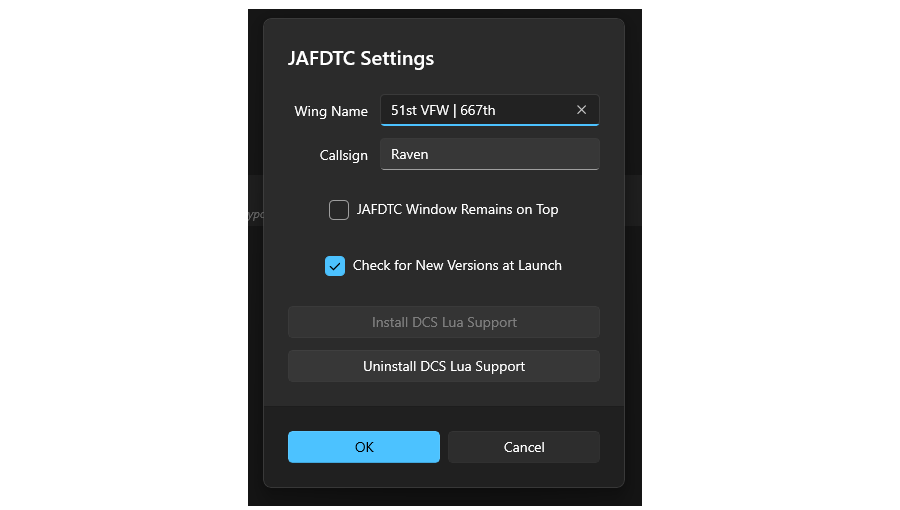
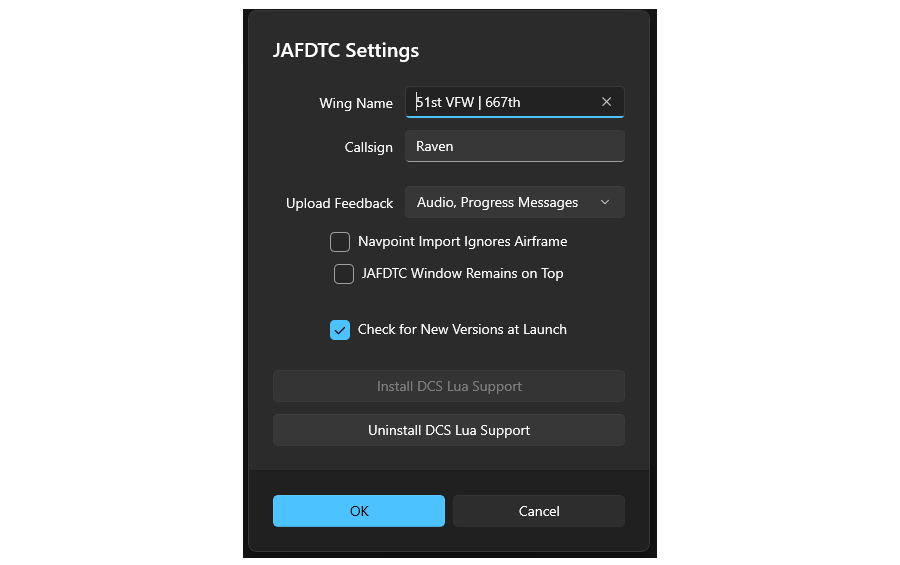
Documentation Updates
Updated for B.20.

diff --git a/doc/README.md b/doc/README.md
@@ -1,6 +1,6 @@
 # JAFDTC: User's Guide
 
-*Version 1.0.0-B.19 of 21-Jan-24*
+*Version 1.0.0-B.20 of 26-Jan-24*
 
 _Just Another #%*@^!% DTC_ (JAFDTC) is a Windows application that allows you to upload data
 typically saved on a data cartridge, such as steerpoints/waypoints and other avionics setup,
@@ -116,10 +116,12 @@ for more details.
 
 The JAFDTC user interface is based around a single window that displays a list of configrations
 for an airframe and allows you to edit the specfic systems in a configuration. This section
-covers some of the user interface features that are common to multiple airframes. See the
-airframe-specific documentation linked
-[above](#jafdtc-users-guide)
-for discussion of the user interface concepts applicable to a specific airframe.
+covers the basics of this user interface. Additional details on user interface elements that
+are common to many airframes can be found
+[here](#common-system-editor-user-interfaces)
+while the documentation linked
+[here](#jafdtc-users-guide)
+presents user interface concepts applicable to a specific airframe.
 
 ## Configuration List Page
 
@@ -342,7 +344,97 @@ system is presently linked to. When unlinking, the system configuration does not
 will no longer receive updates from the source configuration. Icons for linked systems are
 badged with a small gold dot as described earlier.
 
-## System Editors for Navigation Systems
+## Point of Interest Database
+
+JAFDTC provides a *Points of Interest* (PoI) database that contains common locations throughout
+DCS theaters. This database consists of two types of entries,
+
+- *System Entries* are entries set by DCS and cover features such as airfields.
+- *User Entries* are entries defined by a user that cover features useful to a user.
+
+While *System Entries* are fixed and immutable, users can define and managed *User Entries* as
+they see fit. PoIs are applied using the **Paste PoI** command from a
+[navigation point editor](#navigation-point-editor)
+to copy the locations to a navigation point. User PoIs can also be created from a navigation
+point editor.
+
+The **Point of Interest** command in the
+[overflow menu](#command-bar)
+opens up an editor page to manage known PoIs.
+
+![](images/Core_Base_PoI.png)
+
+The top portion of this page contains a combo box that allows you to filter the PoIs by DCS
+theater along with a command bar. Below this row is a list of PoIs, one per row. The pin icon
+at the left of a row indicates that the PoI is a user PoI. At the bottom of the page is an area
+to edit the properties of a PoI including the name, latitude, longitude, and elevation.
+
+The command bar,
+
+![](images/Core_Base_PoI_Cmd.png)
+
+includes the following commands,
+
+- **Edit** &ndash; Copies the properties from the selected PoI to the PoI editor.
+- **Delete** &ndash; Deletes the selected *user* PoIs from the database.
+- **Import** &ndash; Imports new PoIs from a previously exported file.
+- **Export** &ndash; Exports selected *user* PoIs from the database to a file.
+- **User Only** &ndash; Toggles the PoI list between showing all PoIs and only showing
+  user PoIs.
+- **Coordiantes** &ndash; Selects the format to use for PoI coordiantes.
+
+After entering or updating properties for a PoI in the PoI editor, click the **Add** button
+to add a new PoI to the theater (the theater is automatically determined from the latitude
+and longitude). The **Add** button will be titled **Update** if the change would update an
+existing user PoI.
+
+## Settings
+
+You can access the JAFDTC settings through the Settings button on the command bar overflow menu
+as
+[described earlier](#configuration-list-page). The settings dialog box appears as follows,
+
+![](images/Core_Settings.png)
+
+There are multiple controls in the settings,
+
+- **Wing Name**, **Callsign** &ndash; Specifies your wing and callsign. This information
+  appears in the
+  [status area](#status-area)
+  of the
+  [configuration list page](#configuration-list-page).
+  Some airframes also use this inforamtion for configuration.
+- **Upload Feedback** &ndash; Selects the type of feedback to provide during uploads,
+  - *Audio Only* &ndash; Audio cues at the start and completion of upload.
+  - *Audio, Done Message* &ndash; Audio cues and an on-screen message in DCS indicating the
+    upload has finished.
+  - *Audio, Progress Messages* &ndash; Audio cues and an on-screen message in DCS indicating
+    the progress of the upload.
+- **Navpoint Import Ignores Airframe** &ndash; When selected, importing navpoints from a
+  [file](#importing-and-exporting-navigation-points)
+  will not require the airframe in the file to match the airframe of the configuration.
+- **JAFDTC Window Remains on Top** &ndash; Selects whether JAFDTC will always remain on
+  top of the window stack, even while DCS has focus. This allows you to keep the DCS UI
+  visible in non-VR operation.
+- **Check for New Versions at Launch** &ndash; Selects whether JAFDTC will check if a new
+  version is available each time it is launched.
+- **Install DCS Lua Support** &ndash; Installs
+  [DCS Lua support](#support-scripts)
+  if the support is not currently installed (the button is disabled if support is in place).
+- **Uninstall DCS Lua Support** &ndash; Uninstalls
+  [DCS Lua support](#support-scripts)
+  if the support is currently installed (the button is disabled if support is not in place).
+
+JAFDTC saves its settings to a file in `Documents\JAFDTC`. Clicking "OK" will accept any
+changes in the dialog, while "Cancel" will discard any changes.
+
+# Common System Editor User Interfaces
+
+This section discusses navigation and communication system editors. Though there are often
+airframe-specific differences, the editors for these systems share many common features we
+will discuss.
+
+## Navigation System Editors
 
 Most aircraft in JAFDTC support a navigation system that allows *Navigation Points* (i.e.,
 waypoints or steerpoints) to be input into the avionics as a part of a configuration. While
@@ -459,19 +551,22 @@ captured coordinates in the navigation system.
 ### Importing and Exporting Navigation Points
 
 In addition to its own `.json` format, JAFDTC can import navigation points from `.miz` and
-`.cf` files directly. When importing navigation points, they can either replace or be
-appended to the list of currently defined navigation points.
+`.cf` files directly. When importing navigation points, the imported points can either replace
+or be appended to the list of currently defined navigation points.
 
 ![](images/Core_Base_Import.png)
 
 When importing from `.miz` or `.cf` files, you can select the flight within the file you wish
-to import from. The list will only show flights that match the airframe the configuration uses.
+to import from. Based on the **Navpoint Import Ignores Airframe**
+[setting](#settings),
+the available flights may include only those flights matching the current airframe or any flight
+from the file.
 
 Both dialogs allow you to enable or disable the import of *Time on Steerpoint* information from
 the imported file. In addition, for `.cf` files, you can choose to import the take-off
 steerpoints.
 
-## System Editors for Communications Systems
+## Communications System Editors
 
 Several aircraft in JAFDTC support a communication system that allows configuration of one or
 more radios in the airframe. Typical configuration includes information like preset
@@ -506,81 +601,6 @@ parameters (see the
 [airframe-specific documentation](#jafdtc-users-guide)
 for further details) along with the common **Link** and **Reset** controls
 [discussed earlier](#common-editor-controls).
-
-## Point of Interest Database
-
-JAFDTC provides a *Points of Interest* (PoI) database that contains common locations throughout
-DCS theaters. This database consists of two types of entries,
-
-- *System Entries* are entries set by DCS and cover features such as airfields.
-- *User Entries* are entries defined by a user that cover features useful to a user.
-
-While *System Entries* are fixed and immutable, users can define and managed *User Entries* as
-they see fit. PoIs are applied using the **Paste PoI** command from a
-[navigation point editor](#navigation-point-editor)
-to copy the locations to a navigation point. User PoIs can also be created from a navigation
-point editor.
-
-The **Point of Interest** command in the
-[overflow menu](#command-bar)
-opens up an editor page to manage known PoIs.
-
-![](images/Core_Base_PoI.png)
-
-The top portion of this page contains a combo box that allows you to filter the PoIs by DCS
-theater along with a command bar. Below this row is a list of PoIs, one per row. The pin icon
-at the left of a row indicates that the PoI is a user PoI. At the bottom of the page is an area
-to edit the properties of a PoI including the name, latitude, longitude, and elevation.
-
-The command bar,
-
-![](images/Core_Base_PoI_Cmd.png)
-
-includes the following commands,
-
-- **Edit** &ndash; Copies the properties from the selected PoI to the PoI editor.
-- **Delete** &ndash; Deletes the selected *user* PoIs from the database.
-- **Import** &ndash; Imports new PoIs from a previously exported file.
-- **Export** &ndash; Exports selected *user* PoIs from the database to a file.
-- **User Only** &ndash; Toggles the PoI list between showing all PoIs and only showing
-  user PoIs.
-- **Coordiantes** &ndash; Selects the format to use for PoI coordiantes.
-
-After entering or updating properties for a PoI in the PoI editor, click the **Add** button
-to add a new PoI to the theater (the theater is automatically determined from the latitude
-and longitude). The **Add** button will be titled **Update** if the change would update an
-existing user PoI.
-
-## Settings
-
-You can access the JAFDTC settings through the Settings button on the command bar overflow menu
-as
-[described earlier](#configuration-list-page). The settings dialog box appears as follows,
-
-![](images/Core_Settings.png)
-
-There are multiple controls in the settings,
-
-- **Wing Name**, **Callsign** &ndash; Specifies your wing and callsign. This information
-  appears in the
-  [status area](#status-area)
-  of the
-  [configuration list page](#configuration-list-page).
-  Some airframes also use this inforamtion for configuration.
-- **JAFDTC Window Remains on Top** &ndash; Selects whether JAFDTC will always remain on
-  top of the window stack, even while DCS has focus. This allows you to keep the DCS UI
-  visible in non-VR operation.
-- **Check for New Versions at Launch** &ndash; Selects whether JAFDTC will check if a new
-  version is available each time it is launched.
-- **Install DCS Lua Support** &ndash; Installs
-  [DCS Lua support](#support-scripts)
-  if the support is not currently installed (the button is disabled if support is in place).
-- **Uninstall DCS Lua Support** &ndash; Uninstalls
-  [DCS Lua support](#support-scripts)
-  if the support is currently installed (the button is disabled if support is not in place).
-
-JAFDTC saves its settings to a file in `Documents\JAFDTC`. Clicking "OK" will accept any
-changes in the dialog, while "Cancel" will discard any changes.
 
 # DCS Integration
 

diff --git a/doc/Airframe_F16C.md b/doc/Airframe_F16C.md
@@ -1,6 +1,6 @@
 # JAFDTC: F-16C Viper Configurations
 
-*Version 1.0.0-B.19 of 21-Jan-24*
+*Version 1.0.0-B.20 of 26-Jan-24*
 
 JAFDTC supports the following configuration in the Viper,
 
@@ -118,21 +118,20 @@ The datalink system editor page looks like this (from Raven's perspective),
 
 ![](images/Viper_Sys_DLNK_Top.png)
 
-The top-most section of the page allows you to select the table entry for your ownship and
-whether or not you are a flight lead. As we shall discuss shortly, JAFDTC will automatically
-set the ownship table entry when it can determine which entry corresponds to the ownship. The
-common controls implement the link and reset functionality described
+The top-most section of the page allows you to select the table entry for your ownship, your
+callsign, and whether or not you are a flight lead. As we shall discuss shortly, JAFDTC will
+automatically set the ownship table entry when it can determine which entry corresponds to the
+ownship. The common controls implement the link and reset functionality described
 [earlier](https://github.com/51st-Vfw/JAFDTC/tree/master/doc/README.md#common-editor-controls).
-
-> JAFDTC does not currently handle callsigns through the DED DLNK page.
 
 The middle part of the page allows you to edit the entries in the table that specify the team
 members. For each table entry, there are three controls,
 
-* *TDOA* enables or disables sharing of HTS information within the team.
-* *TNDL* specifies the five-digit octal code assigned to the jet (that is, 5 digits where all
-  digits are between 0 and 7, inclusive).
-* *Callsign* allows you to select a pilot from the pilot database or a "generic" pilot.
+* **TDOA** &ndash; enables or disables sharing of HTS information within the team.
+* **TNDL** &ndash;  specifies the five-digit octal code assigned to the jet (that is, 5 digits
+  where all digits are between 0 and 7, inclusive).
+* **Callsign** &ndash;  allows you to select a pilot from the pilot database or a "generic"
+  pilot.
 
 The TNDL field is only editable if the callsign control does not select a pilot from the pilot
 database (in this case, the callsign control is blank as in entry 6 above). The background of
@@ -293,8 +292,7 @@ initial radio frequency and guard monitor.
 ![](images/Viper_Sys_COMM.png)
 
 This editor follows the common communication systems editor the
-[user's guide](https://github.com/51st-Vfw/JAFDTC/tree/master/doc/README.md#system-editors-for-communications-systems)
-describes with the common controls implementing the link and reset functionality described in
+[user's guide](https://github.com/51st-Vfw/JAFDTC/tree/master/doc/README.md#communications-system-editors) the link and reset functionality described in
 the
 [user's guide](https://github.com/51st-Vfw/JAFDTC/tree/master/doc/README.md#common-editor-controls).
 

diff --git a/doc/Airframe_F15E.md b/doc/Airframe_F15E.md
@@ -1,7 +1,6 @@
 # JAFDTC: F-15E Strike Eagle Configurations
 
-*Version 1.0.0-B.19 of 21-Jan-24*
-
+*Version 1.0.0-B.20 of 26-Jan-24*
 
 JAFDTC supports the following configuration in the Strike Eagle,
 

diff --git a/doc/Airframe_A10C.md b/doc/Airframe_A10C.md
@@ -1,6 +1,6 @@
 # JAFDTC: A-10C Warthog Configurations
 
-*Version 1.0.0-B.19 of 21-Jan-24*
+*Version 1.0.0-B.20 of 26-Jan-24*
 
 JAFDTC supports the following configuration in the Warthog,
 

diff --git a/doc/Airframe_AV8B.md b/doc/Airframe_AV8B.md
@@ -1,6 +1,6 @@
 # JAFDTC: AV-8B Harrier Configurations
 
-*Version 1.0.0-B.19 of 21-Jan-24*
+*Version 1.0.0-B.20 of 26-Jan-24*
 
 JAFDTC supports the following configuration in the Harrier,
 

diff --git a/doc/Airframe_F14AB.md b/doc/Airframe_F14AB.md
@@ -1,6 +1,6 @@
 # JAFDTC: F-14A/B Tomcat Configurations
 
-*Version 1.0.0-B.19 of 21-Jan-24*
+*Version 1.0.0-B.20 of 26-Jan-24*
 
 JAFDTC supports the following configuration in the Tomcat,
 

diff --git a/doc/Airframe_FA18C.md b/doc/Airframe_FA18C.md
@@ -1,6 +1,6 @@
 # JAFDTC: F/A-18C Hornet Configurations
 
-*Version 1.0.0-B.19 of 21-Jan-24*
+*Version 1.0.0-B.20 of 26-Jan-24*
 
 JAFDTC supports the following configuration in the Hornet,
 

diff --git a/doc/Airframe_M2000C.md b/doc/Airframe_M2000C.md
@@ -1,6 +1,6 @@
 # JAFDTC: Mirage M-2000C Configurations
 
-*Version 1.0.0-B.19 of 21-Jan-24*
+*Version 1.0.0-B.20 of 26-Jan-24*
 
 JAFDTC supports the following configuration in the Mirage,
 
